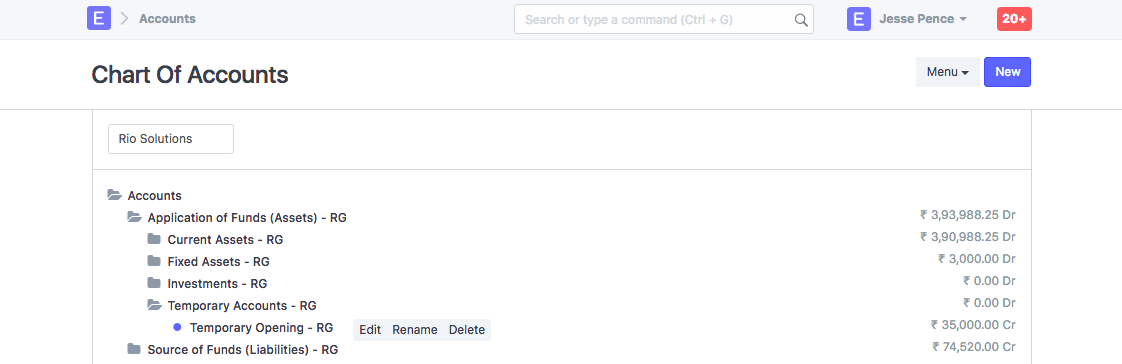
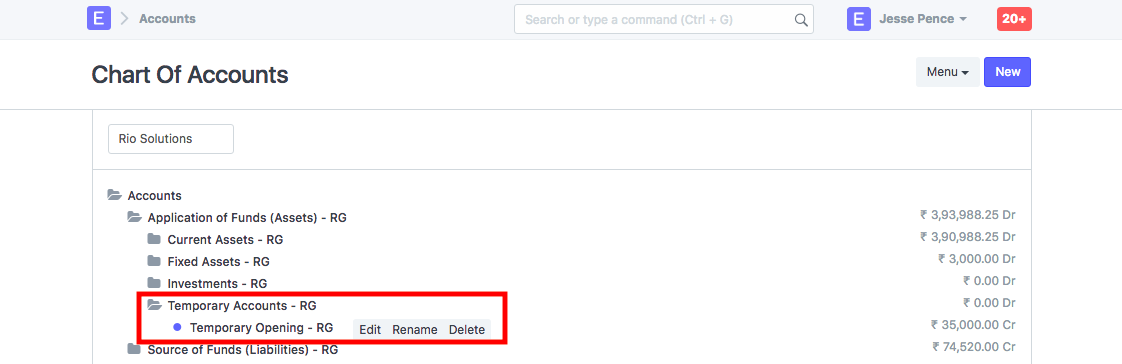
docs: Improved Opening Balance Documentation

Changed region(s): [[0.0936, 0.7857, 0.4679, 0.967]]

diff --git a/erpnext_com/www/docs/user/manual/en/accounts/opening-balance.md b/erpnext_com/www/docs/user/manual/en/accounts/opening-balance.md
@@ -1,0 +1,69 @@
+<!-- add-breadcrumbs -->
+# Opening Balance in Accounts
+
+**The opening balance is the balance that is brought forward at the beginning of an accounting period from the end of a previous accounting period or when starting out.**
+
+## 1. Introduction
+
+If you are a new company you will have minimal opening balances to be imported. However, if you are migrating from a legacy accounting system like Tally or a Fox Pro based software you will have considerable data to be imported as opening balance.
+
+We recommend that you start using ERPNext for accounting from a new financial year, but you could start midway too. To setup your accounts, you will need the following for the “day” you start using accounting in ERPNext:
+
+##### Assets:
+1. Stock assets (stock in hand)
+1. Fixed assets like furnitures, computers etc
+1. Accounts Receivables(AR) i.e. unpaid invoices which you have sent to your customers
+1. Current assets like bank balances, cash in hand, deposits etc
+
+##### Liabilities:
+
+1. Capital accounts like your shareholder’s (or owner’s) capital
+1. Current liabilities like loans, salary payables etc
+1. Accounts Payables(AP) i.e. unpaid invoices which your suppliers have sent you
+
+
+If you were using another accounting software before, you should close financial statements in that software first. The closing balance of the accounts should be updated as an opening balance in the ERPNext. Before starting to update opening balance, ensure that your [Chart of Accounts](/docs/user/manual/en/accounts/chart-of-accounts) has all the Accounts required.
+
+> Opening entry is only for Balance Sheet accounts and not for Profit and Loss Accounts.
+
+## 2. Opening Balance of Assets
+
+2.1 [Fixed Assets](/docs/user/manual/en/accounts/opening-balance/fixed_assets)
+
+2.2 [Stock Assets](/docs/user/manual/en/stock/opening-stock)
+
+2.3 [Accounts Receivable](/docs/user/manual/en/accounts/opening-balance/accounts_receivable)
+
+2.4 [Current Assets](/docs/user/manual/en/accounts/opening-balance/current_assets)
+
+## 3. Opening Balance of Liabilities
+
+3.1 [Capital Accounts](/docs/user/manual/en/accounts/opening-balance/capital_accounts)
+
+3.2 [Current Liabilities](/docs/user/manual/en/accounts/opening-balance/current_liabilities)
+
+3.3 [Accounts Payable](/docs/user/manual/en/accounts/opening-balance/accounts_payable)
+
+## 4. Verify the Opening Balance
+
+Once all assets and liabilities have been imported, the balance of **Temporary Opening** ledger should be zero.
+
+After completing the accounting entries, the trial balance report will look as shown below.
+
+<img class="screenshot" alt="Opening Account" src="{{docs_base_url}}/assets/img/accounts/opening-4.png">
+
+<div>
+  <div class='embed-container'>
+    <iframe src='https://www.youtube.com/embed//U5wPIvEn-0c' frameborder='0' allowfullscreen>
+    </iframe>
+  </div>
+</div>
+
+#### 4. Related Topics
+1. [Chart of Accounts](/docs/user/manual/en/accounts/chart-of-accounts)
+1. [Journal Entry](/docs/user/manual/en/accounts/journal-entry)
+1. [Payment Entry](/docs/user/manual/en/accounts/payment-entry)
+1. [Payments](/docs/user/manual/en/accounts/payments)
+1. [Payment Reconciliation](/docs/user/manual/en/accounts/payment-reconciliation)
+
+{next}

diff --git a/erpnext_com/www/docs/user/manual/en/accounts/opening-balance/fixed_assets.md b/erpnext_com/www/docs/user/manual/en/accounts/opening-balance/fixed_assets.md
@@ -1,0 +1,37 @@
+<!-- add-breadcrumbs -->
+# Import Fixed Assets
+
+To import all the existing fixed assets first create the asset record and then create a journal entry to update general ledger.
+
+### 1. Create Asset Records
+
+Create Asset record for each asset that your company owns which is not fully depreciated.
+
+To create a new Asset:
+
+1. Go to **Assets > Assets > New.**
+1. Enter Asset Name.
+1. Enter Item Code.
+1. Enter Location.
+1. Enter Purchase Date.
+1. Enter Gross Amount.
+1. Tick **Is Existing Asset.**
+
+<img class="screenshot" alt="Stock Asset Ledger" src="{{docs_base_url}}/assets/img/accounts/asset_opening_balance.png">
+
+
+### 2. Created Journal Entry to Update the Ledgers
+
+When you create an Asset with 'Is Existing Asset' checkbox ticked, the General Ledger is not updated. You will have to update the value via a Journal Entry.
+
+To create a new Journal Entry:
+
+1. Go to: **Accounts > Masters and Accounts > Journal Entry > New.**
+1. Enter Posting Date.
+1. Select the appropriate fixed asset ledgers in Account column and enter the value in Debit column.
+1. Select 'Temporary Opening' ledger in Account column and enter the balancing amount in Credit column.
+1. Set 'Is Opening' to Yes.
+
+<img class="screenshot" alt="Stock Asset Ledger" src="{{docs_base_url}}/assets/img/accounts/journal_entry_for_fixed_asset_opening_balance.png">
+
+{next}

diff --git a/erpnext_com/www/docs/user/manual/en/accounts/articles/warehouse-ledger-link.md b/erpnext_com/www/docs/user/manual/en/accounts/articles/warehouse-ledger-link.md
@@ -1,0 +1,19 @@
+# Stock and Accounting Module Integration
+
+The value of stock stored in the warehouses needs to be tracked.
+
+Each warehouse is linked to a ledger in chart of accounts through the 'Account' field in the warehouse.
+
+<img class="screenshot" alt="Opening Account" src="{{docs_base_url}}/assets/img/accounts/stock_asset_ledger_in_warehouse.png">
+
+If the Account field is empty in a warehouse, then the Account mentioned in the parent of that warehouse is considered. If an Account could not be determined by tracing the hierarchy, then the Default Inventory Account mentioned in the Company record is considered.
+
+<img class="screenshot" alt="Opening Account" src="{{docs_base_url}}/assets/img/accounts/default_inventory_account.png">
+
+When a company is created, a ledger named 'Stock In Hand' is created by default in Chart of Accounts.
+
+**Chart of Accounts > Assets > Current Assets > Stock Assets > Stock In Hand.**
+
+If required, you can create additional ledgers under 'Stock Assets' group.
+
+<img class="screenshot" alt="Stock Asset Ledger" src="{{docs_base_url}}/assets/img/accounts/stock_asset_ledger.png">

diff --git a/erpnext_com/www/docs/user/manual/en/accounts/opening-balance/accounts_receivable.md b/erpnext_com/www/docs/user/manual/en/accounts/opening-balance/accounts_receivable.md
@@ -1,0 +1,29 @@
+<!-- add-breadcrumbs -->
+# Import Accounts Receivables
+
+**Accounts Receivables is the balance amount your customer owes you towards the sales invoices you have already sent to them.**
+
+You can import the accounts receivables details using Opening Invoice Creation Tool.
+
+To import outstanding invoices:
+
+1. Go to **Accounting > Masters and Accounts > opening Invoice Creation Tool.**
+
+1. Select the Company.
+
+1. Select Sales in Invoice Type.
+
+1. Click on Add Row and select customer in party, select Posting Date, Due Date, Item Name and add Outstanding Amount.
+
+1. Click on Create Invoices.
+
+Sales Invoices will be created. You can post Payment Entry against these invoices as and when you receive payment from your customer.
+
+<div>
+    <div class="embed-container">
+        <iframe src="https://www.youtube.com/embed/vfWmugaO1zw" frameborder="0" allow="autoplay; encrypted-media" allowfullscreen>
+        </iframe>
+    </div>
+</div>
+
+{next}

diff --git a/erpnext_com/www/docs/user/manual/en/accounts/opening-balance/accounts_payable.md b/erpnext_com/www/docs/user/manual/en/accounts/opening-balance/accounts_payable.md
@@ -1,0 +1,29 @@
+<!-- add-breadcrumbs -->
+# Import Accounts Payables
+
+**Accounts Payables is the balance amount you owe your suppliers towards the invoices they have already sent you.**
+
+You can import the accounts payables details using Opening Invoice Creation Tool.
+
+To import outstanding invoices:
+
+1. Go to **Accounting > Masters and Accounts > opening Invoice Creation Tool.**
+
+1. Select the Company.
+
+1. Select Purchase in Invoice Type.
+
+1. Click on Add Row and select supplier in party, select Posting Date, Due Date, Item Name and add Outstanding Amount.
+
+1. Click on Create Invoices.
+
+<div>
+    <div class="embed-container">
+        <iframe src="https://www.youtube.com/embed/vfWmugaO1zw" frameborder="0" allow="autoplay; encrypted-media" allowfullscreen>
+        </iframe>
+    </div>
+</div>
+
+Purchase Invoices will be created. You can post Payment Entry against these invoices as and when you make the payment.
+
+<next>

diff --git a/erpnext_com/www/docs/user/manual/en/accounts/opening-balance/current_liabilities.md b/erpnext_com/www/docs/user/manual/en/accounts/opening-balance/current_liabilities.md
@@ -1,0 +1,17 @@
+<!-- add-breadcrumbs -->
+# Import Current Liabilities
+
+Before importing current liabilities, make sure that you have created the required ledgers under **Chart of Accounts > Liabilities > Current Liabilities** group.
+
+To import details of current liabilities:
+
+1. Go to: **Accounts > Masters and Accounts > Journal Entry > New**.
+1. Enter Posting Date.
+1. Select the appropriate current liability ledgers in Account column and enter the value in Credit column.
+1. Select 'Temporary Opening' ledger in Account and enter the balancing amount in Debit column.
+1. Set 'Is Opening' to Yes.
+
+<img class="screenshot" alt="Stock Asset Ledger" src="{{docs_base_url}}/assets/img/accounts/opening_balance_current_liabilities.png">
+
+
+{next}

diff --git a/erpnext_com/www/docs/user/manual/en/accounts/opening-balance/capital_accounts.md b/erpnext_com/www/docs/user/manual/en/accounts/opening-balance/capital_accounts.md
@@ -1,0 +1,17 @@
+<!-- add-breadcrumbs -->
+# Import Capital Accounts
+
+Before importing capital accounts, make sure that you have created the required ledgers under **Chart of Accounts > Liabilities > Capital Accouns** group.
+
+To import details of capital accounts:
+
+1. Go to: **Accounts > Masters and Accounts > Journal Entry > New**.
+1. Enter Posting Date.
+1. Select the appropriate capital account ledgers in Account column and enter the value in Credit column.
+1. Select 'Temporary Opening' ledger in Account and enter the balancing amount in Debit column.
+1. Set 'Is Opening' to Yes.
+
+<img class="screenshot" alt="Stock Asset Ledger" src="{{docs_base_url}}/assets/img/accounts/opening_balance_capital_accounts.png">
+
+
+{next}

diff --git a/erpnext_com/www/docs/user/manual/en/accounts/opening-balance/current_assets.md b/erpnext_com/www/docs/user/manual/en/accounts/opening-balance/current_assets.md
@@ -1,0 +1,17 @@
+<!-- add-breadcrumbs -->
+# Import Current Assets
+
+Before importing current assets, make sure that you have created the required ledgers under **Chart of Accounts > Assets > Current Assets** group.
+
+To import details of current assets:
+
+1. Go to: **Accounts > Company and Accounts > Journal Entry > New**.
+1. Enter Posting Date.
+1. Select the appropriate current asset ledger in Account column and enter the value in Credit.
+1. Select 'Temporary Opening' ledger in Account and enter the balancing amount in Credit.
+1. Set 'Is Opening' to Yes.
+
+<img class="screenshot" alt="Stock Asset Ledger" src="{{docs_base_url}}/assets/img/accounts/opening_balance_current_assets.png">
+
+
+{next}

diff --git a/erpnext_com/www/docs/user/manual/en/accounts/index.md b/erpnext_com/www/docs/user/manual/en/accounts/index.md
@@ -16,7 +16,7 @@ You can check out [this video](https://www.youtube.com/watch?v=5wjollWN0OA) for 
 ##### 1.1 Setup and Opening
 1. [Introduction](/docs/user/manual/en/accounts/accounting-entries)
 1. [Chart Of Accounts](/docs/user/manual/en/accounts/chart-of-accounts)
-1. [Opening Balance](/docs/user/manual/en/accounts/opening-accounts)
+1. [Opening Balance](/docs/user/manual/en/accounts/opening-balance)
 1. [Cost Center](/docs/user/manual/en/accounts/cost-center)
 1. [Fiscal Year](/docs/user/manual/en/accounts/fiscal-year)
 1. [Accounts Settings](/docs/user/manual/en/accounts/accounts-settings)

diff --git a/erpnext_com/www/docs/user/manual/en/accounts/articles/index.md b/erpnext_com/www/docs/user/manual/en/accounts/articles/index.md
@@ -32,3 +32,6 @@
 ##### 2.5 Reports and Errors
 1. [Purchase Invoice Account Type Error](/docs/user/manual/en/accounts/articles/purchase-invoice-account-type-error)
 1. [Fiscal Year Error](/docs/user/manual/en/accounts/articles/fiscal-year-error)
+
+##### 2.6 Stock and Accounting Integration
+1. [Warehouse and Accounting Ledger Link](/docs/user/manual/en/accounts/articles/warehouse-ledger-link)
